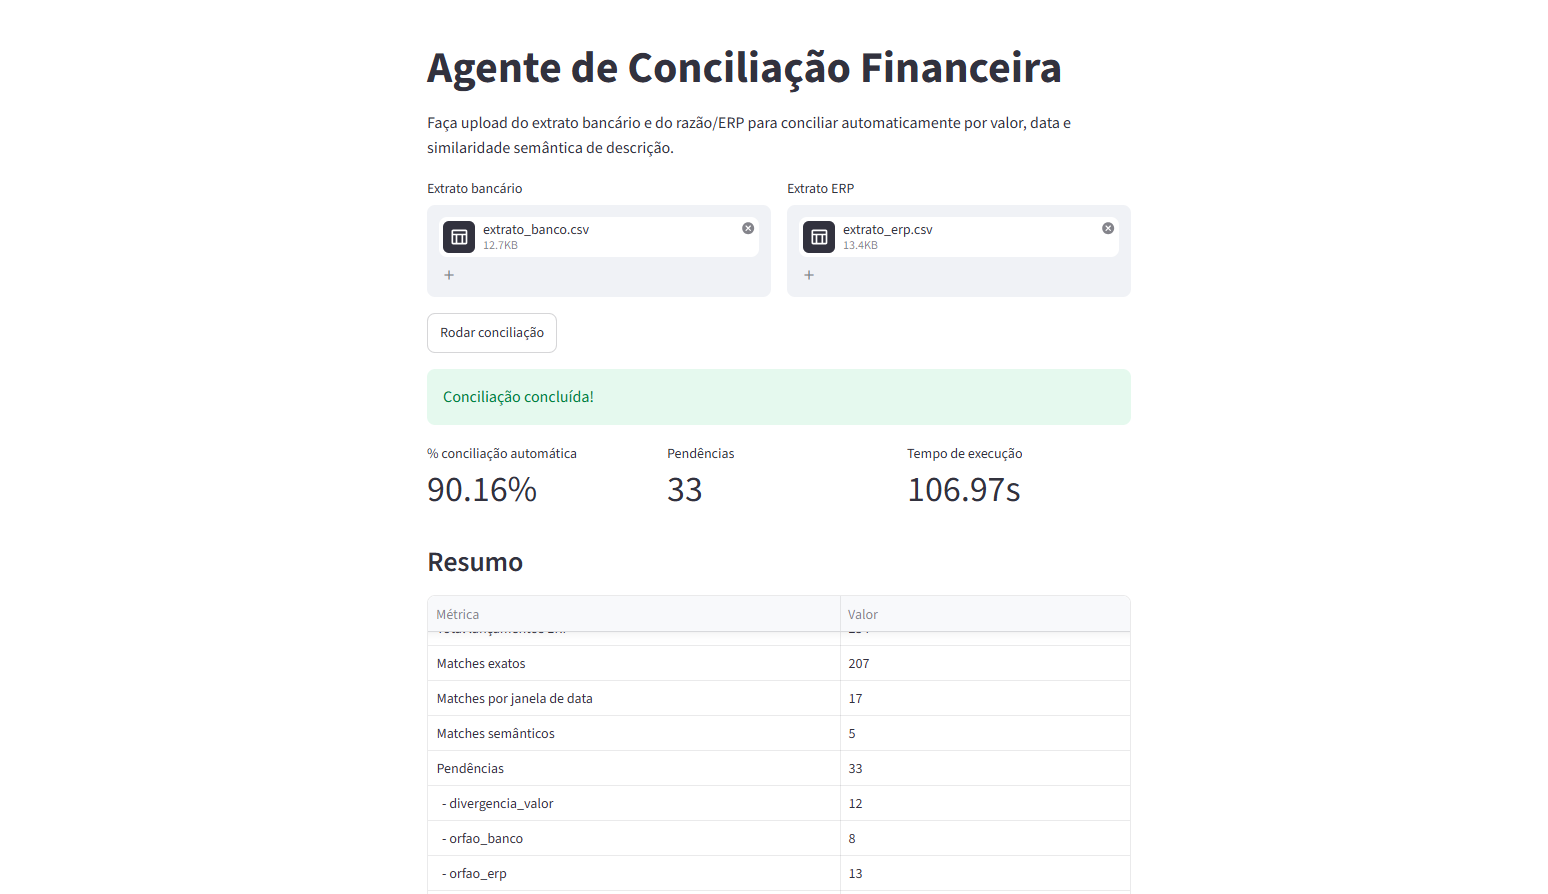
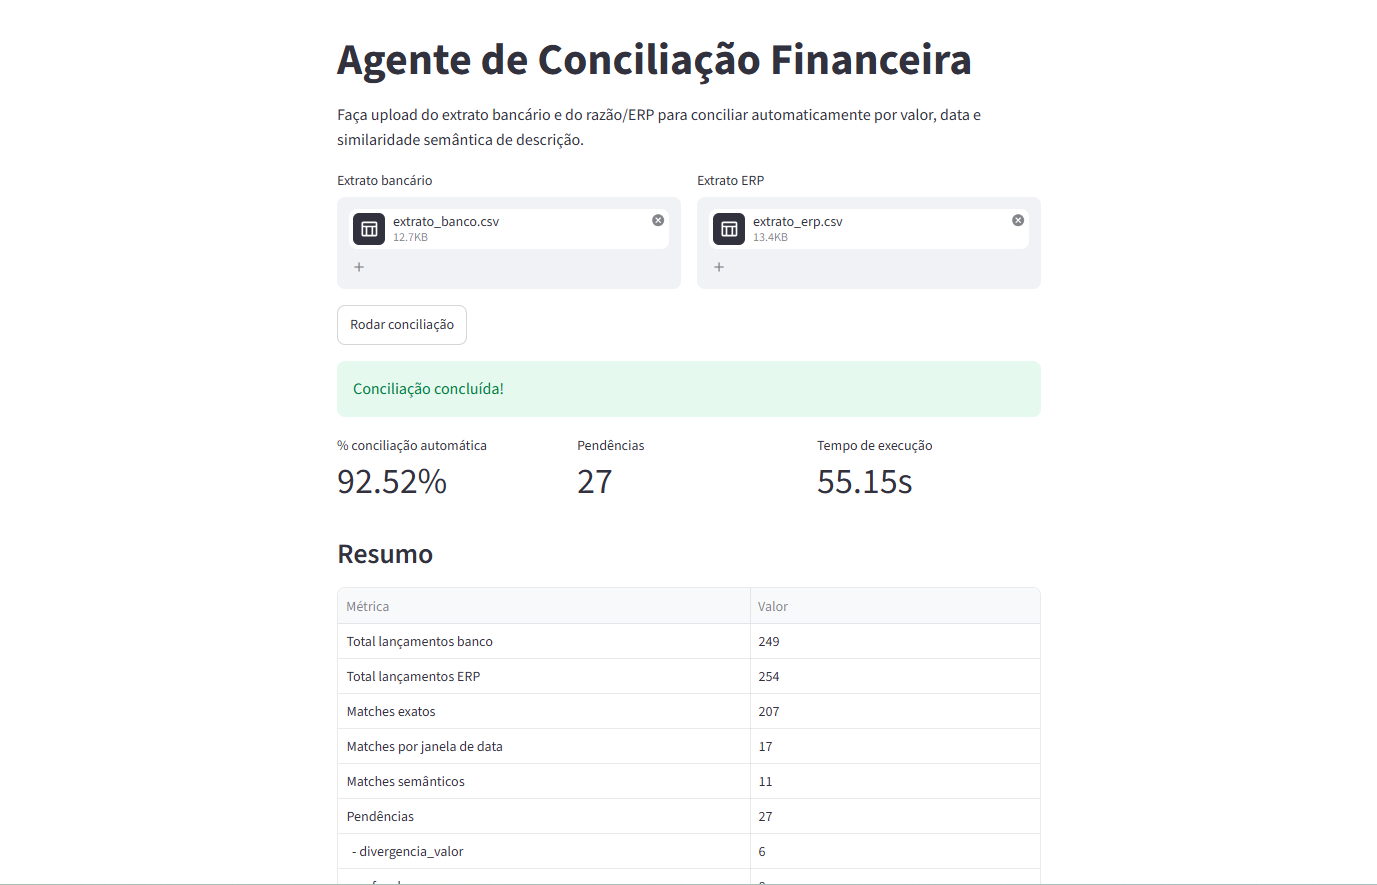
Atualizar README com app publicado, métricas atuais e limpar referências ao Groq
Documenta a URL do app no Render, atualiza a tabela de métricas para os
números com TF-IDF (92,52% de conciliação automática, 11 matches
semânticos), e remove menções residuais ao Groq nos testes.

diff --git a/tests/test_explicacao.py b/tests/test_explicacao.py
@@ -81,7 +81,7 @@ def test_gerar_explicacoes_degrada_sem_quebrar_se_lote_falhar(monkeypatch):
     monkeypatch.setenv("OPENROUTER_API_KEY", "chave-fake-para-teste")
 
     def chamar_llm_falha(prompt: str) -> str:
-        raise RuntimeError("falha simulada do Groq")
+        raise RuntimeError("falha simulada do OpenRouter")
 
     pendencias = [_pendencia(id="B1"), _pendencia(id="B2")]
     resultado = gerar_explicacoes(pendencias, chamar_llm=chamar_llm_falha)

diff --git a/README.md b/README.md
@@ -3,6 +3,10 @@
 Um agente que concilia extrato bancário e ERP sem precisar de match exato — e explica
 cada pendência como um analista explicaria.
 
+**App publicado:** [conciliacao-financeira-mt9m.onrender.com](https://conciliacao-financeira-mt9m.onrender.com)
+*(plano gratuito do Render — o serviço "dorme" após 15 min sem acesso; o primeiro
+acesso depois disso pode levar 30-50s pra acordar.)*
+
 ## O problema
 
 Toda empresa que opera com múltiplas fontes de lançamento financeiro (extrato
@@ -128,9 +132,9 @@ tests/                          # pytest — cobre ingestão, matching e explica
 |---|---|
 | Match exato | 207 |
 | Match por janela de data | 17 |
-| Match semântico | 5 |
-| **Total conciliado automaticamente** | **90,16%** |
-| Pendências restantes | 33 (12 divergência de valor, 8 órfãos banco, 13 órfãos ERP) |
+| Match semântico | 11 |
+| **Total conciliado automaticamente** | **92,52%** |
+| Pendências restantes | 27 (6 divergência de valor, 8 órfãos banco, 13 órfãos ERP) |
 
 ## Limitações conhecidas
 